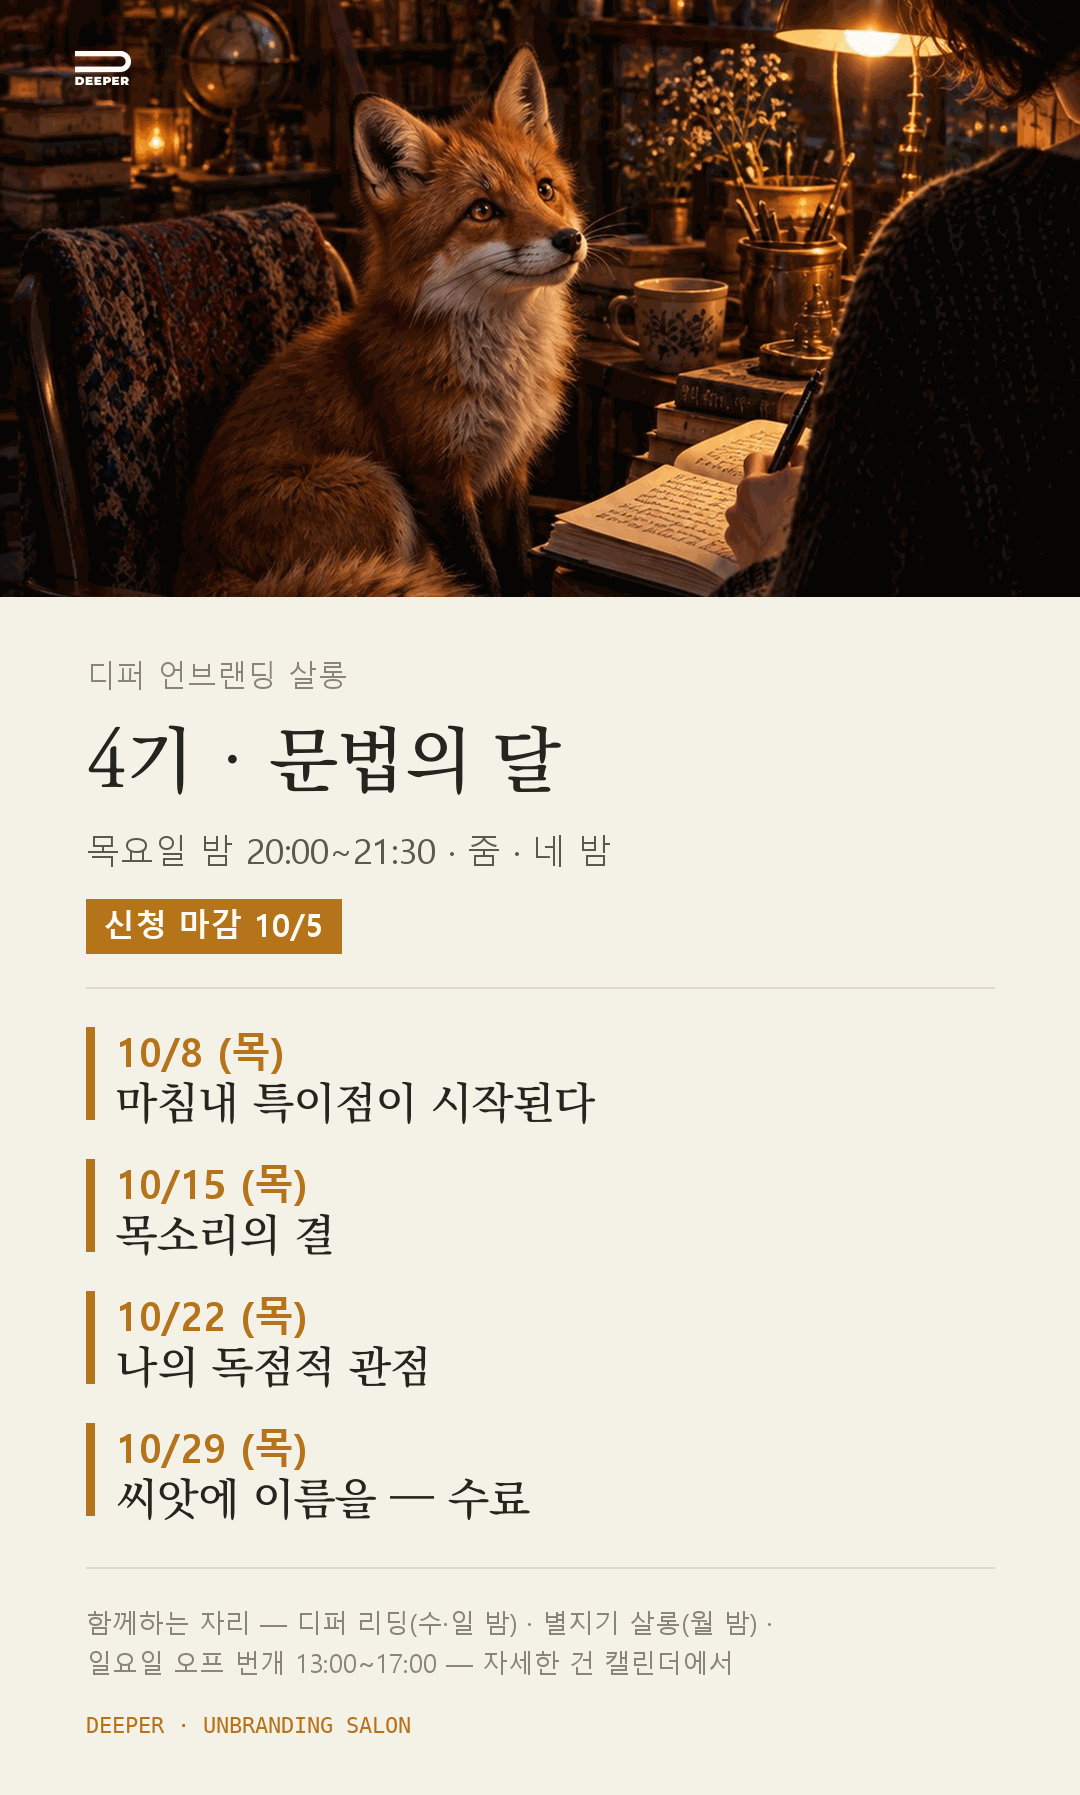
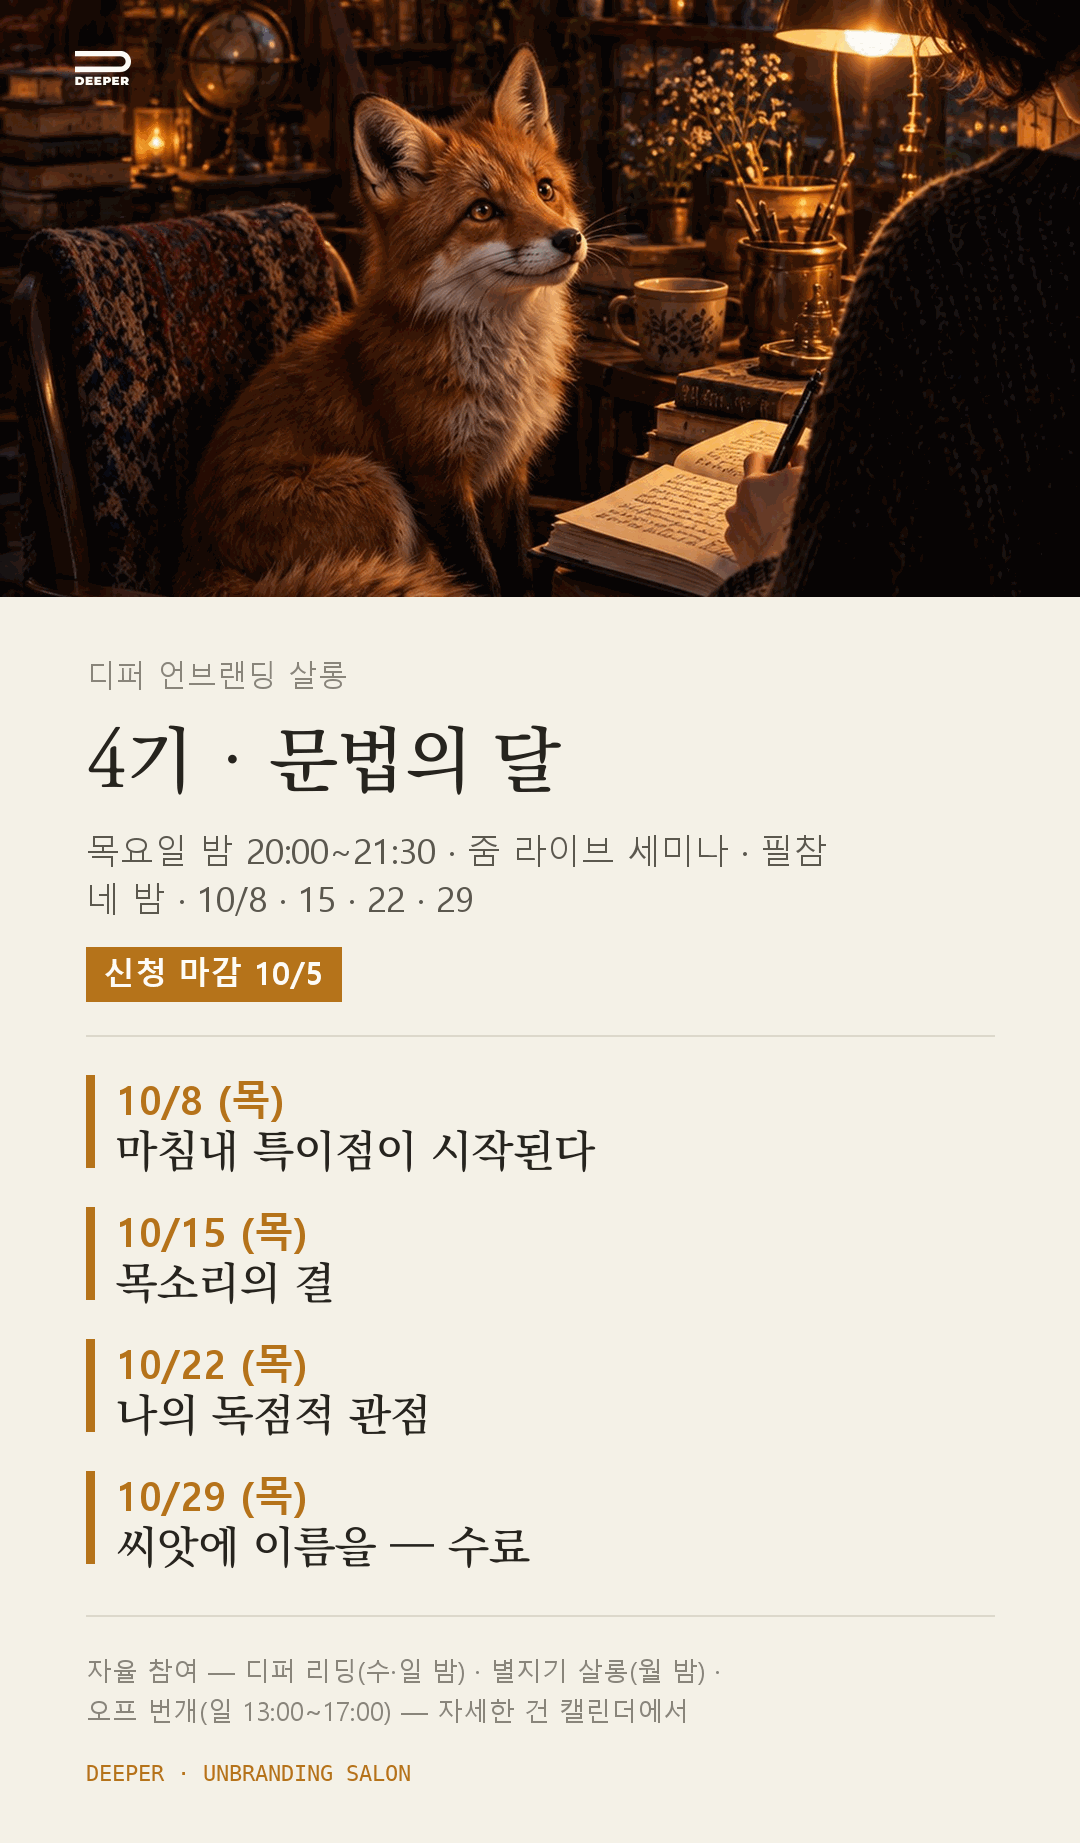
[calendar] 필참과 자율 참여를 적는다
발행인 지시 — 목요일 살롱은 줌 라이브 세미나·필참, 디퍼 리딩과 별지기 살롱은 자율 참여.

- 4기 전용 카드: 머리 줄이 「목요일 밤 20:00~21:30 · 줌 라이브 세미나 · 필참」 /
  「네 밤 · 10/8 · 15 · 22 · 29」 두 줄. 맨 아래 줄은
  「자율 참여 — 디퍼 리딩(수·일 밤) · 별지기 살롱(월 밤) · 오프 번개(일 13:00~17:00)」.
- 폼 카드(전체판): 문법·논리 시간 줄에 「줌 라이브 세미나 · 필참」,
  별지기 살롱·디퍼 리딩 둘에 「자율 참여」.
- 캘린더 두 판: 4기 문법·3기 논리 카드 시간 줄에 「줌 라이브 세미나 · 필참」 ·
  리딩 절 lead와 디퍼 리딩·별지기 살롱 범례에 「자율 참여」 ·
  리듬 상자 첫 줄에 「목요일 세미나는 필참입니다. 디퍼 리딩과 별지기 살롱은 자율 참여고요.」
- 두 판에서 「필참」 3 · 「자율 참여」 4 · 「줌 라이브 세미나」 2.

diff --git a/deeper_calendar_2026-10.html b/deeper_calendar_2026-10.html
@@ -188,10 +188,10 @@
 
   <div class="legend">
     <span class="li"><span class="dot d-p"></span>디퍼 언브랜딩살롱 <b>2기 · 수사의 달</b> — 월요일 <b>20:00~21:00</b> · 퍼핀</span>
-    <span class="li"><span class="dot d-star"></span><b>별지기 살롱</b> — 월요일 <b>21:00~22:30</b></span>
+    <span class="li"><span class="dot d-star"></span><b>별지기 살롱</b> — 월요일 <b>21:00~22:30</b> · 자율 참여</span>
     <span class="li"><span class="dot d-g"></span>디퍼 언브랜딩살롱 <b>3기 · 논리의 달</b> — 목요일 <b>21:30~23:00</b></span>
     <span class="li"><span class="dot d-o"></span>디퍼 언브랜딩살롱 <b>4기 · 문법의 달</b> — 목요일 <b>20:00~21:30</b></span>
-    <span class="li"><span class="dot d-s"></span><b>디퍼 리딩</b> — 전체 디퍼 함께 · 수요일 <b>21:00~22:30</b> · 일요일 <b>21:00~22:30</b></span>
+    <span class="li"><span class="dot d-s"></span><b>디퍼 리딩</b> — 전체 디퍼 함께 · 수요일 <b>21:00~22:30</b> · 일요일 <b>21:00~22:30</b> · 자율 참여</span>
     <span class="li"><span class="dot d-m"></span><b>일요일 오프 번개</b> — 10/4 · 10/18 <b>13:00~17:00</b> · 강남 이디야 커피랩 · 한 달에 두 번, 얼굴을 보는 날</span>
     <span class="li"><span class="dot d-c"></span><b>디퍼 콤포스텔라 1기</b> — 월요일 <b>10:00~12:00</b> · 비즈니스 트랙 · 1구간 프리미티보 완주 → 2구간 피스테라</span>
   </div>
@@ -315,7 +315,7 @@
 
   <section class="sec">
     <div class="band"><img src="calendar/astra_books.jpg" alt="등불이 켜진 밤의 서가">
-      <div class="band-t"><h2>이달의 책 — 디퍼 리딩 여섯 밤</h2><span class="lead">수요일 21:00~22:30 · 일요일 21:00~22:30 · 전체 디퍼</span></div></div>
+      <div class="band-t"><h2>이달의 책 — 디퍼 리딩 여섯 밤</h2><span class="lead">수요일 21:00~22:30 · 일요일 21:00~22:30 · 전체 디퍼 · 자율 참여</span></div></div>
     <p class="sec-desc">9월에 『마침내 특이점이 시작된다』와 『생각하는 기계』로 기계 쪽을 읽었으니, 10월은 사람 쪽으로 돌아옵니다. 만드는 사람들의 속기록에서 시작해 기계의 말, 맡기면 사라지는 것, 내 방의 링크로 내려옵니다. 사이사이 일요일엔 오뒷세우스가 집으로 가는 길을 두 권씩 걷습니다. 읽은 만큼 오시면 됩니다. 사실을 다지고, 해석을 나누고, 마지막 몇 분에 각자의 평가를 남기는 소크라테스식 세미나입니다.</p>
     <div class="books">
 
@@ -386,7 +386,7 @@
       <div class="course o">
         <div class="tag">GRAMMAR · 4기</div>
         <h3>문법의 달 — 원천을 캔다</h3>
-        <div class="time"><b>목요일 20:00~21:30</b> · 10/8 · 15 · 22 · 29 · 줌</div>
+        <div class="time"><b>목요일 20:00~21:30</b> · 줌 라이브 세미나 · <b>필참</b><br>10/8 · 15 · 22 · 29</div>
         <div class="intro">내 컴퓨터에 사는 세컨브레인 「사막여우」와 30일을 걷습니다. 손으로 쓰고, 여우에게 먹이고, 나만 볼 수 있는 각도를 찾습니다. 마지막 밤, 씨앗에 이름을 붙입니다.</div>
         <div class="wk"><div class="n">10/8</div><div class="b"><b>마침내 특이점이 시작된다</b><span>사막여우와 첫 인사. 왜 손으로 쓰는지, 내 도메인이 어디인지. 이번 주 할 일은 셋뿐입니다.</span></div></div>
         <div class="wk"><div class="n">10/15</div><div class="b"><b>목소리의 결</b><span>문체는 기교가 아니라 살아온 방식의 흔적. 손으로 쓴 세 줄과 씨앗 문장 초고 한 줄. 언어 지문 하나.</span></div></div>
@@ -398,7 +398,7 @@
       <div class="course g">
         <div class="tag">LOGIC · 3기</div>
         <h3>논리의 달 — 나의 시스템을 짓는다</h3>
-        <div class="time"><b>목요일 21:30~23:00</b> · 10/8 · 15 · 22 · 29 · 줌</div>
+        <div class="time"><b>목요일 21:30~23:00</b> · 줌 라이브 세미나 · <b>필참</b><br>10/8 · 15 · 22 · 29</div>
         <div class="intro">문법에서 캔 재료로 내 일을 알고 내 결로 움직이는 AI 비서를 세웁니다. 프롬프트와 컨텍스트가 기본기, 그 위에 규칙책과 고리. 마지막 주, 악보 한 장이 손에 남습니다. 매주 『괴델, 에셔, 바흐』 한 대목을 함께 읽습니다.</div>
         <div class="wk"><div class="n">10/8</div><div class="b"><b>기호는 어떻게 의미가 되는가</b><span>내 비서의 첫 규칙, 공리(시스템 프롬프트). GEB 서론과 1장.</span></div></div>
         <div class="wk"><div class="n">10/15</div><div class="b"><b>글이 일이 되도록</b><span>누구를 위해 움직이는가, 독자(페르소나)와 첫 고리. GEB 게 카논과 무의 헌정.</span></div></div>
@@ -448,6 +448,7 @@
   <div class="rhythm">
     <h2>날마다 · 주마다 — 한 달의 리듬</h2>
     <img src="calendar/astra_rhythm.jpg" alt="등불 아래 책상과 사막여우" style="width:100%;height:auto;display:block;aspect-ratio:1080/230;object-fit:cover;object-position:50% 46%;border-radius:4px;margin:4px 0 14px">
+    <p><b>목요일 세미나는 필참</b>입니다. 디퍼 리딩과 별지기 살롱은 <b>자율 참여</b>고요.</p>
     <p><b>매일</b> — 모닝페이지, 긱어스에 인증 · 사막여우와 안녕 · 오아시스 · 냠냠, 사막방에 인증</p>
     <p><b>매주 1회</b> — 아티스트 데이트, 사막방에 인증</p>
     <p><b>일요일 13:00~17:00 · 10/4 · 10/18</b> — 오프 번개, 강남 이디야 커피랩. 한 달에 두 번, 화면 밖에서 만나는 날입니다. 제주에서, 지방에서 기차를 타고 오시는 분들이 있어요. 노트북 하나 들고 오셔서 서로의 사막여우를 보여 주세요. 줌에서 한 달 걸은 이야기가 그 자리에서 다음 한 달의 힘이 됩니다. 오후 한 시부터 다섯 시까지 문이 열려 있습니다.</p>

diff --git a/deeper_calendar_2026-10_light.html b/deeper_calendar_2026-10_light.html
@@ -159,10 +159,10 @@
 
   <div class="legend">
     <span class="li"><span class="dot d-p"></span>디퍼 언브랜딩살롱 <b>2기 · 수사의 달</b> — 월요일 <b>20:00~21:00</b> · 퍼핀</span>
-    <span class="li"><span class="dot d-star"></span><b>별지기 살롱</b> — 월요일 <b>21:00~22:30</b></span>
+    <span class="li"><span class="dot d-star"></span><b>별지기 살롱</b> — 월요일 <b>21:00~22:30</b> · 자율 참여</span>
     <span class="li"><span class="dot d-g"></span>디퍼 언브랜딩살롱 <b>3기 · 논리의 달</b> — 목요일 <b>21:30~23:00</b></span>
     <span class="li"><span class="dot d-o"></span>디퍼 언브랜딩살롱 <b>4기 · 문법의 달</b> — 목요일 <b>20:00~21:30</b></span>
-    <span class="li"><span class="dot d-s"></span><b>디퍼 리딩</b> — 전체 디퍼 함께 · 수요일 <b>21:00~22:30</b> · 일요일 <b>21:00~22:30</b></span>
+    <span class="li"><span class="dot d-s"></span><b>디퍼 리딩</b> — 전체 디퍼 함께 · 수요일 <b>21:00~22:30</b> · 일요일 <b>21:00~22:30</b> · 자율 참여</span>
     <span class="li"><span class="dot d-m"></span><b>일요일 오프 번개</b> — 10/4 · 10/18 <b>13:00~17:00</b> · 강남 이디야 커피랩 · 한 달에 두 번, 얼굴을 보는 날</span>
     <span class="li"><span class="dot d-c"></span><b>디퍼 콤포스텔라 1기</b> — 월요일 <b>10:00~12:00</b> · 비즈니스 트랙 · 1구간 프리미티보 완주 → 2구간 피스테라</span>
   </div>
@@ -285,7 +285,7 @@
   </section>
 
   <section class="sec">
-    <div class="sec-head"><h2>이달의 책 — 디퍼 리딩 여섯 밤</h2><span class="lead">수요일 21:00~22:30 · 일요일 21:00~22:30 · 전체 디퍼</span></div>
+    <div class="sec-head"><h2>이달의 책 — 디퍼 리딩 여섯 밤</h2><span class="lead">수요일 21:00~22:30 · 일요일 21:00~22:30 · 전체 디퍼 · 자율 참여</span></div>
     <p class="sec-desc">9월에 『마침내 특이점이 시작된다』와 『생각하는 기계』로 기계 쪽을 읽었으니, 10월은 사람 쪽으로 돌아옵니다. 만드는 사람들의 속기록에서 시작해 기계의 말, 맡기면 사라지는 것, 내 방의 링크로 내려옵니다. 사이사이 일요일엔 오뒷세우스가 집으로 가는 길을 두 권씩 걷습니다. 읽은 만큼 오시면 됩니다. 사실을 다지고, 해석을 나누고, 마지막 몇 분에 각자의 평가를 남기는 소크라테스식 세미나입니다.</p>
     <div class="books">
 
@@ -355,7 +355,7 @@
       <div class="course o">
         <div class="tag">GRAMMAR · 4기</div>
         <h3>문법의 달 — 원천을 캔다</h3>
-        <div class="time"><b>목요일 20:00~21:30</b> · 10/8 · 15 · 22 · 29 · 줌</div>
+        <div class="time"><b>목요일 20:00~21:30</b> · 줌 라이브 세미나 · <b>필참</b><br>10/8 · 15 · 22 · 29</div>
         <div class="intro">내 컴퓨터에 사는 세컨브레인 「사막여우」와 30일을 걷습니다. 손으로 쓰고, 여우에게 먹이고, 나만 볼 수 있는 각도를 찾습니다. 마지막 밤, 씨앗에 이름을 붙입니다.</div>
         <div class="wk"><div class="n">10/8</div><div class="b"><b>마침내 특이점이 시작된다</b><span>사막여우와 첫 인사. 왜 손으로 쓰는지, 내 도메인이 어디인지. 이번 주 할 일은 셋뿐입니다.</span></div></div>
         <div class="wk"><div class="n">10/15</div><div class="b"><b>목소리의 결</b><span>문체는 기교가 아니라 살아온 방식의 흔적. 손으로 쓴 세 줄과 씨앗 문장 초고 한 줄. 언어 지문 하나.</span></div></div>
@@ -367,7 +367,7 @@
       <div class="course g">
         <div class="tag">LOGIC · 3기</div>
         <h3>논리의 달 — 나의 시스템을 짓는다</h3>
-        <div class="time"><b>목요일 21:30~23:00</b> · 10/8 · 15 · 22 · 29 · 줌</div>
+        <div class="time"><b>목요일 21:30~23:00</b> · 줌 라이브 세미나 · <b>필참</b><br>10/8 · 15 · 22 · 29</div>
         <div class="intro">문법에서 캔 재료로 내 일을 알고 내 결로 움직이는 AI 비서를 세웁니다. 프롬프트와 컨텍스트가 기본기, 그 위에 규칙책과 고리. 마지막 주, 악보 한 장이 손에 남습니다. 매주 『괴델, 에셔, 바흐』 한 대목을 함께 읽습니다.</div>
         <div class="wk"><div class="n">10/8</div><div class="b"><b>기호는 어떻게 의미가 되는가</b><span>내 비서의 첫 규칙, 공리(시스템 프롬프트). GEB 서론과 1장.</span></div></div>
         <div class="wk"><div class="n">10/15</div><div class="b"><b>글이 일이 되도록</b><span>누구를 위해 움직이는가, 독자(페르소나)와 첫 고리. GEB 게 카논과 무의 헌정.</span></div></div>
@@ -413,6 +413,7 @@
 
   <div class="rhythm">
     <h2>날마다 · 주마다 — 한 달의 리듬</h2>
+    <p><b>목요일 세미나는 필참</b>입니다. 디퍼 리딩과 별지기 살롱은 <b>자율 참여</b>고요.</p>
     <p><b>매일</b> — 모닝페이지, 긱어스에 인증 · 사막여우와 안녕 · 오아시스 · 냠냠, 사막방에 인증</p>
     <p><b>매주 1회</b> — 아티스트 데이트, 사막방에 인증</p>
     <p><b>일요일 13:00~17:00 · 10/4 · 10/18</b> — 오프 번개, 강남 이디야 커피랩. 한 달에 두 번, 화면 밖에서 만나는 날입니다. 제주에서, 지방에서 기차를 타고 오시는 분들이 있어요. 노트북 하나 들고 오셔서 서로의 사막여우를 보여 주세요. 줌에서 한 달 걸은 이야기가 그 자리에서 다음 한 달의 힘이 됩니다. 오후 한 시부터 다섯 시까지 문이 열려 있습니다.</p>
